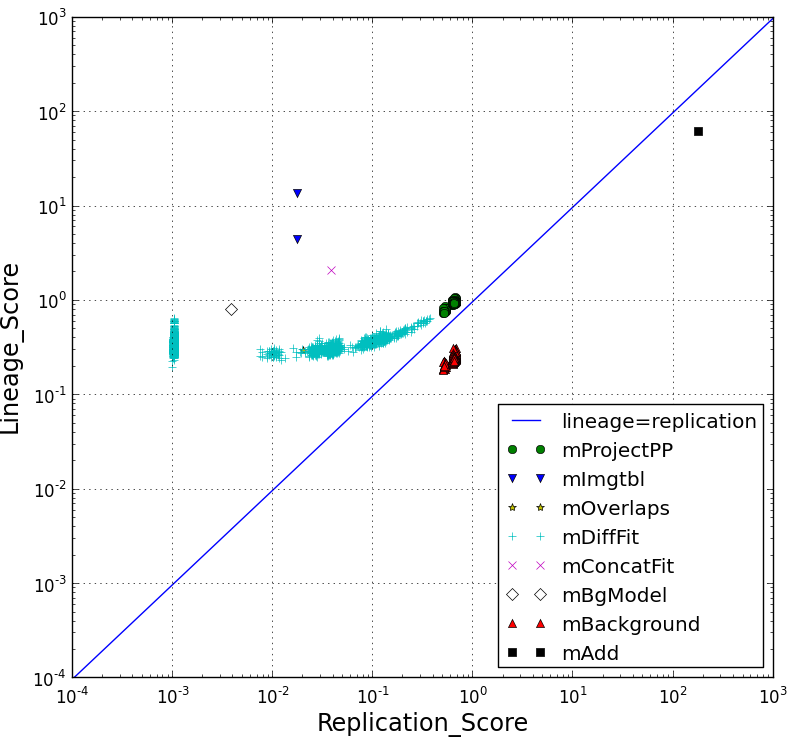
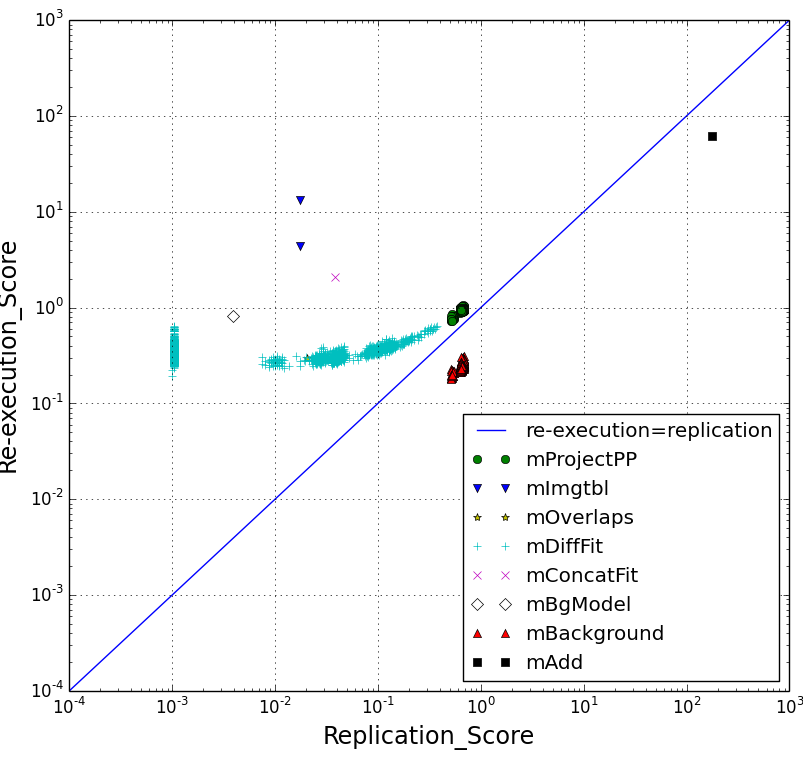
globally change schemes approaches to methods and models

diff --git a/Resilience.tex b/Resilience.tex
@@ -91,12 +91,12 @@ inherently volatile as they are not persisted to disk.
 Existing systems overcome node failure by providing resilient data access either through task re-execution or file replication. 
 However, applying either technique blindly can be inefficient due to 
 excessive recovery or replication costs associated with the irregularity of task runtimes and I/O.
-We present an adaptive approach that calculates and balances backup and
-recovery costs to guide resilience decisions. Our approach aims to identify
+We present an adaptive method that calculates and balances backup and
+recovery costs to guide resilience decisions. Our method aims to identify
 at run time the best choices for a given computer system and application.
-We implement this adaptive approach inside the AMFORA parallel scripting framework
+We implement this adaptive method inside the AMFORA parallel scripting framework
 and evaluate its effectiveness with an image processing application, Montage.
-We find that the adaptive approach recovers up to 57\% faster than
+We find that the adaptive method recovers up to 57\% faster than
 do pure re-execution or replication, while introducing only 2.9\% overhead in failure-free performance on 64 compute nodes.
 We also discover that, at least for this application, backup decisions are relatively insensitive to node failure rate.
 %We implement the adaptive backup model inside two distributed computing framework: AMFORA and
@@ -137,15 +137,15 @@ If we have preserved either metadata describing how to re-execute a task (a {\em
 we can achieve this by 1) re-executing the task(s) that produced the missing data or 2) accessing copies of that data located on other nodes, respectively.
 Meanwhile, all other tasks can continue running as they are not affected by the failure.
 
-The two backup and recovery approaches described above have been employed in various systems. For example,
+The two backup and recovery methods described above have been employed in various systems. For example,
 the Spark~\cite{RDD2012} and BAD-FS~\cite{badfs2004} systems re-execute tasks following node failure,
 while RAID 1~\cite{raid1988} and the Hadoop Distributed File System (HDFS)~\cite{HDFS} replicate each file (at the block level) a configurable number of times to preserve data access following node failure.
 However, irregular execution times, data sizes, and data dependencies can cause problems for each approach when applied to many-task applications. 
-Universal application of the lineage technique can result in excessive recovery costs, since a failure can 
+Universal application of the re-execution method can result in excessive recovery costs, since a failure can 
 require restarting deep in the lineage graph.
-On the other hand, ubiquitous application of replication may result in excessive overheads when failures are rare, due to data copying and storage costs.
-Thus, we present here a new configurable adaptive model that dynamically chooses between these two approaches,
-based on online, model-driven estimates of backup and recovery costs. We integrate this adaptive approach into
+On the other hand, ubiquitous application of replication method may result in excessive overheads when failures are rare, due to data copying and storage costs.
+Thus, we present here a new configurable adaptive method that dynamically chooses between these two methods,
+based on online, model-driven estimates of backup and recovery costs. We integrate this adaptive method into
 AMFORA~\cite{AMFS2013},
 a parallel scripting framework for scientific computing, and evaluate its performance in the context of a large many task scientific application, Montage~\cite{montage2, montage1}. 
 Our experiments show that when emulating a supercomputer with 64 m3.large Amazon EC2 instances, the adaptive model recovers up to 57\% faster than a purely re-execution or replication approach, and introduces only 2.9\% of failure-free overhead. %when compared to no backups.
@@ -159,7 +159,7 @@ In this paper, we assume the network that connects nodes has a uniform bandwidth
 We assume lineage information gathering and data replication are synchronous. To simplify the discussion, we also assume that all nodes share a common, consistent failure rate and failures are uncorrelated. However, we later show that the failure has little impact on the adaptive backup model in Section~\ref{sec:Perf:Failure}. 
 
 
-The contribution of this work is the use of a general adaptive mathematical model for making dynamic recovery %backup\kylenote{is backup the right word here? maybe recovery, resilience or replication?}
+The contribution of this work is the use of a general adaptive mathematical model for making dynamic resilience \zhaonote{I prefer resilience, as we actually make backup decisions that can make recovery fast.} %backup\kylenote{is backup the right word here? maybe recovery, resilience or replication?}
 decisions and our evaluation of this model in a practical setting.
 The model is applicable to a broad range of applications running on clouds, clusters, and supercomputers. We also show that node failure rate is irrelevant to backup choice decision in practice.
 
@@ -289,9 +289,9 @@ of runtime state mutations.
 \section{Adaptive Backup Model}
 \label{sec:Model}
 
-Our resilience approach builds on an analytical model that relates the costs of backup and recovery to system parameters
+Our resilience method builds on an analytical model that relates the costs of backup and recovery to system parameters
 such as communication cost and failure rate.
-Here we explain this model in detail and present the algorithm that we use to make dynamic replication decisions. 
+Here we explain this model in detail and present the algorithm that we use to make dynamic resilience decisions. 
 
 In general, we view a task as a function $t$ that takes $n$ input files and produces $m$ output files:
 \begin{equation}
@@ -376,7 +376,7 @@ equal to the time required to transfer the file plus the time required to switch
 in the case of failure, where the likelihood of needing to use the replica is based on the rate of failure $P$
 Thus, when there is no failure, the cost of replication is simply the cost of creating the replicas
 
-\subsubsection{Expected Lineage Recovery Cost}
+\subsubsection{Expected Re-execution Recovery Cost}
 The recovery time via re-execution is dependent on both the time to re-execute the task as well
 as the time to recover the required input files of that task. 
 A task $t_i$ has $n$ input files. Assume that those input files are located on $n$ other nodes.
@@ -398,14 +398,14 @@ ${n \choose 1}P(1-P)^{n-1}(T+E(x_i))$
 \noindent where ${E(x_i)}$ refers to the recovery cost of item ${x_i}$ via the technique with which file ${x_i}$ is backed up. 
 
 
-Adding these items gives the following closed form for the expected lineage recovery cost:
+Adding these items gives the following closed form for the expected re-execution recovery cost:
 
 \begin{equation}
-E_{line}(y) = T+P\sum_{i=1}^{n}E(x_i)
+E_{reex}(y) = T+P\sum_{i=1}^{n}E(x_i)
 \label{EQ:temporal}
 \end{equation}
 
-Equation~\ref{EQ:temporal} defines the lineage recovery cost for an output file $y$ to be
+Equation~\ref{EQ:temporal} defines the re-execution recovery cost for an output file $y$ to be
 equal to the time to re-execute the task $T$ plus the sum of the time required to recover all of $T$'s
 input files. Here, the only overhead (in the case without failure) is related to 
 the cost of updating file metadata with the information needed to re-execute the task.
@@ -423,24 +423,31 @@ S=\alpha*U+(1-\alpha)*E
 \label{EQ:combined}
 \end{equation}
 %
-For every output file, we evaluate the total cost with both lineage or replication as the backup choice, and use the technique with the lower total cost.
+For every output file, we evaluate the total cost with both re-execution and replication as the backup choice, and use the one with the lower total cost.
 The term $\alpha$ in Equation~\ref{EQ:combined} is a weight, which the user can set to between 0 and 1. 
  If the user's optimization goal is backup cost, users can specify $\alpha$ close to 1
-That means that execution will optimize the backup cost over recovery cost. In contrast, if the user's optimization goal is recovery cost, $\alpha$ should be specified close to 0. The system make backup decisions to optimize the expected recovery cost since the chance of failure is high. Section~\ref{sec:Perf:Weight} quantitatively evaluates the impact of optimization weight on adaptive backup decision making. 
+That means that execution will optimize the backup cost over recovery cost. 
+During execution, the system will always select the backup method with lower backup cost, thus minimizing the failure-free overhead.
+\zhaonote{add one sentence to explain what it means for application with the weight $\alpha$}
+In contrast, if the user's optimization goal is recovery cost, $\alpha$ should be specified close to 0. 
+The system make backup decisions to optimize the expected recovery cost since the chance of failure is high. 
+So the system will always prefer to optimize the performance with the presence of failures.
+\zhaonote{add one sentence to explain what it means for application with the weight $\alpha$}
+Section~\ref{sec:Perf:Weight} quantitatively evaluates the impact of optimization weight on adaptive backup decision making. 
 
 \subsubsection{Discussion}
 %\kylenote{I'm not sure if this section adds a lot, I'm not sure if the discussion is based on what you think? or are we forward referencing results? I would vote to remove (although the picture is nice).}
 %\katznote{I think this makes sense to keep - it explores the equations we just presented.}
-We next discuss how task and system parameters impact the choice of backup approach.
+We next discuss how task and system parameters impact the choice of backup method.
 The four example tasks in Figure~\ref{fig:taxonomy} vary in their computation time, I/O size, and number of input files. If we control the comparison by varying only one factor, we see some trends about backup decisions.
 An output file produced by a longer-running task will tend to be backed up by replication because the cost of regenerating the file by re-executing the task will be large.
 %\iannote{It is unclear from the text whether the following are qualitative statements based on your intuition, or based on simulations.}
 %\iannote{Do you not assume that there is just one output file per task?} 
 %\iannote{I realize now something that is bothering me. You seem to alternate between a perspective based on files and a perspective based on tasks. I think the text will be clearer if you choose one. Let's say it is files. Then this sentence would be ``An output file produced by a longer-running task will tend to be backed up by replication." This sentence (and the other sentences in this section) would be clearer if we added some explanatory words, such as ``because the cost of regenerating the file by re-executing the task will be large."}\zhaonote{I see, fixed}
-A larger output file is more likely to be backed up through lineage, since replicating this file takes a long time.
+A larger output file is more likely to be backed up through re-execution, since replicating this file takes a long time.
 A file that depends on more input files has a higher probability to be backed up through replication, as it takes a long time to read many input files during reproduction of this particular file.
 
-We also observe the implication of system bandwidth for the choice of backup approach.
+We also observe the implication of system bandwidth for the choice of backup method.
 Higher bandwidth improves replication performance more significantly than lineage; thus, other things being equal, the same file is more likely to be backed up through replication on a higher-bandwidth system.
 
 \begin{figure}[ht]
@@ -454,7 +461,7 @@ Higher bandwidth improves replication performance more significantly than lineag
 
 \section{Implementation}
 \label{sec:Impl}
-To integrate the adaptive backup model into the AMFORA framework, we implemented two backup primitives: replicate() and lineage(). The {\em replicate()} primitive creates a configurable number of replicas for a file on peer nodes. The {\em lineage()} primitive records a file's lineage (i.e., the command line used to produce it) in the file's metadata. Also recorded in the file metadata are the file's host address and expected recovery cost
+To integrate the adaptive backup model into the AMFORA framework, we implemented two backup primitives: replicate() and re-execute(). The {\em replicate()} primitive creates a configurable number of replicas for a file on peer nodes. The {\em re-execute()} primitive records a file's lineage (i.e., the command line used to produce it) in the file's metadata. Also recorded in the file metadata are the file's host address and expected recovery costs
 \kylenote{Is this expected recovery cost for both methods? or just lineage?}. 
 \zhaonote{It is both.}
 The execution engine captures task runtime information such as time-to-solution and I/O size. We also require that it
@@ -494,7 +501,7 @@ file that is generated.
 
 \section{Performance Evaluation}
 \label{sec:Perf}
-We evaluate our approach by emulating a supercomputer environment with an Amazon EC2 cluster of 64 m3.large instances, each equipped with 2 Intel Xeon E5-2670 vCPUs and 7.5~GB memory. 
+We evaluate the adaptive method by emulating a supercomputer environment with an Amazon EC2 cluster of 64 m3.large instances, each equipped with 2 Intel Xeon E5-2670 vCPUs and 7.5~GB memory. 
 \zhaonote{rewrite the previous sentence to make it supercomputer} 
 \katznote{not sure this is really helpful - reviewers might ask why not just use 64 nodes of a real supercomputer}
 \zhaonote{There is some technical barrier for running AMFORA on supercomputers after BG/P is decommissioned. The NERSC Edison machine does not allow users to use FUSE on compute nodes and so do other Cray ones. BG/Q does not have a full linux kernel yet.}
@@ -537,8 +544,8 @@ The nine stages spans a wide space of many-task applications across dimensions o
 		\includegraphics[width=160mm]{pictures/no-failure.png}
 		\vspace{-10pt}
 		\caption{Montage performance comparison of lineage backup, replication backup, and adaptive backup
-		resilience schemes without node failures during execution, shown as ratios between the time-to-solution 
-		of each resilience scheme against the no-resilience time-to-solution. Bars above the line indicates performance degradation,
+		methods without node failures during execution, shown as ratios between the time-to-solution 
+		of each resilience method against the no-resilience time-to-solution. Bars above the line indicates performance degradation,
 		and bars below the line indicates performance improvements. The numbers underneath the stage labels are the baseline time-to-solution measured in seconds for overall application and each stage.
 		\label{fig:montage}}
   	\end{center}
@@ -548,51 +555,51 @@ In our recovery cost model we specify a network bandwidth ($B$) of 20~MB/s, whic
 
 
 \subsection{Failure-free Backup Overhead}
-We first run a set of experiments to measure costs incurred by our resilience features in the absence of failure.
+We first run a set of experiments to measure costs incurred by our adaptive method in the absence of failure.
 We run the nine stages
-of the Montage application on our target platform using four different system configurations: no-resilience, lineage backup,
+of the Montage application on our target platform using four different system configurations: no-resilience, re-execution backup,
 replication backup (two replicas per file), and adaptive backup.
 Figure~\ref{fig:montage} shows, for each of the latter three cases, the resilience overhead expressed as
 the ratio between its execution time and the no-resilience time.
 
-We see that in the no-failure case, the overhead incurred by the lineage approach is small (just 0.6\%),
+We see that in the failure-free case, the overhead incurred by the re-execution approach is small (just 0.6\%),
 as the only substantial additional work is that of inserting the generating task information into the file metadata.
-The replication scheme introduces a larger overall overhead of 44.0\%, due to the need to replicate the output files
+The replication method introduces a larger overall overhead of 44.0\%, due to the need to replicate the output files
 to two other nodes.
 
-At the individual Montage stage level, the lineage scheme incurs less overhead than the replication scheme in all stages except mImgtbl-1,
+At the individual Montage stage level, the re-execution method incurs less overhead than the replication method in all stages except mImgtbl-1,
 which is just one task that reads all output files from mProject.
-With the replication scheme, mImgtbl-1 takes advantage of the locality of the replicas of the mProject output files.
+With the replication method, mImgtbl-1 takes advantage of the locality of the additional replicas of the mProject output files.
 \kylenote{I dont understand what you mean by take advantage of replica locality?}
 \zhaonote{Let's say mProject has 369 output files, if there is no replication, each node has about 6 files (64 nodes). By replicating the file two additional times, each node will have 18 files. So mImgtbl-1 will have 18 out of 369 files in the local this. Thus it can run faster.}
-In the mBackground stages, the lineage scheme's overhead is significant (12.1\%), because this stage involves many
+In the mBackground stages, the re-execution method's overhead is significant (12.1\%), because this stage involves many
 parallel, short tasks; the many concurrent metadata updates that result can introduce contention on the nodes that host the metadata.
 In contrast, the mProject, mDiffFit, mBackground, and mAdd stages all incur significant overhead when using replication, because they each produce many and/or large output files.
 For example, mDiffFit has over 2000 output files and mAdd has one task that writes one 1.2~GB output file.
 
-The adaptive replication scheme incurs an overall overhead of 2.9\%, which is inbetween the overheads from lineage and replication.
+The adaptive method incurs an overall overhead of 2.9\%, which is in between the overheads from re-execution and replication.
 For the mImgtbl-1, mOverlaps, mConcatFit, mBgModel, mImtbl-2 and mAdd stages, the adaptive
-scheme uses lineage backup.
-mDIffFit runs faster with the adaptive scheme than with replication, since its input files (outputs of mProjectPP) are backed up with replication.
-The mBackground stage runs in a time that is between that of the lineage and replication cases partially because the input files
-were replicated, and the output files are backed up through lineage.
+method uses lineage backup.
+mDIffFit runs faster with the adaptive method than with replication, since its input files (outputs of mProjectPP) are backed up with replication.
+The mBackground stage runs in a time that is between that of the re-execution and replication cases partially because the input files
+were replicated, and the output files are backed up with the re-execution method.
 
 
 \begin{figure}[ht]
         \begin{center}
                 \includegraphics[width=70mm]{pictures/dist}
                 \vspace{-10pt}
-                \caption{Montage output files' positioning in a two dimensional space of replication score and lineage score.
+                \caption{Montage output files' positioning in a two dimensional space of replication score and re-execution score.
                 \label{fig:montage-space}}
         \end{center}
 \end{figure}
 
-Figure~\ref{fig:montage-space} shows the position of all output files in the test case on a two dimensional space of lineage and replication score
+Figure~\ref{fig:montage-space} shows the position of all output files in the test case on a two dimensional space of re-execution and replication score
 \kylenote{cost? We never really define score. I dont mind calling it score but we should make sure that is clear earlier.} 
 \zhaonote{I put a Score definition before Equation 7. It is ``Score'' as it is the linear combination of the expected backup and recovery cost. So there should be ``Lineage Score'' and ``Replication Score'' for each file.}
 calculated with Equation~\ref{EQ:combined}.
-Each point shows a single output file from each Montage stage. The points in the upper left triangle are those where the replication score is lower than the lineage store, 
-while those in the lower right triangle are the files where the lineage score is lower than the replication score.
+Each point shows a single output file from each Montage stage. The points in the upper left triangle are those where the replication score is lower than the re-execution store, 
+while those in the lower right triangle are the files where the re-execution score is lower than the replication score.
 
 \subsection{Recovery Performance}
 To evaluate recovery time, we inject failures during job execution by causing a node to fail (fail-stop) at a specified application stage.
@@ -606,12 +613,12 @@ needs to access the output files of mProject.
 When one of these files is not available, the system must recover that file through either re-execution (based on
 lineage metadata) or by accessing a file replica (if the file replicated).
 
-Figure~\ref{fig:montage-fail-mProjectPP} compares the times to solution of our three backup schemes for those three
+Figure~\ref{fig:montage-fail-mProjectPP} compares the times to solution of our three backup methods for those three
 Montage stages.
-We see that the adaptive and replication schemes perform similarly in stages mImgtbl-1 and mDiffFit,
-as the output files of these two stages are backed up via replication; both also perform better than the lineage scheme.
-The mBackground stage runs faster under the adaptive scheme than in the lineage and replication scheme,
-as all of its tasks benefit from the previously replicated mProject output files and all of its output files are backed up through lineage as shown in Figure~\ref{fig:montage-space}.
+We see that the adaptive and replication methods perform similarly in stages mImgtbl-1 and mDiffFit,
+as the output files of these two stages are backed up via replication; both also perform better than the re-execution method.
+The mBackground stage runs faster under the adaptive method than in the re-execution and replication method,
+as all of its tasks benefit from the previously replicated mProject output files and all of its output files are backed up through the re-execution method as shown in Figure~\ref{fig:montage-space}.
 
 \begin{figure}[ht]
         \begin{center}
@@ -643,30 +650,30 @@ Thus, upon file unavailability, the system recovers the mBackground output file 
         \end{center}
 \end{figure}
 
-Figure~\ref{fig:montage-fail-mBackground} shows the time-to-solution comparison between the three replication schemes. 
-The adaptive scheme achieves similar performance with lineage and replication scheme for mImgtbl-2. 
-This indicates that recovery from lineage recursively and backing up the mImgtbl-2 output file with the same scheme has identical performance to recovery using replication recursively and backing up mImgtbl-2 output files through replication. 
-In fact, the adaptive approaches recovers the input files using lineage for mBackground and using replication for mProject. The mImgtbl-2 output file is backed up through replication.
-The adaptive scheme has significant performance advantages for the mAdd stage.
-It again achieves recursive recovery via lineage for mBackground and replication for mProject,
+Figure~\ref{fig:montage-fail-mBackground} shows the time-to-solution comparison between the three replication methods. 
+The adaptive method achieves similar performance with re-execution and replication method for mImgtbl-2. 
+This indicates that recovery from re-execution recursively and backing up the mImgtbl-2 output file with the same method has identical performance to recovery using replication recursively and backing up mImgtbl-2 output files through replication. 
+In fact, the adaptive method recovers the input files using re-exeuction for mBackground and using replication for mProject. The mImgtbl-2 output file is backed up through replication.
+The adaptive method has significant performance advantages for the mAdd stage.
+It again achieves recursive recovery via re-execution for mBackground and replication for mProject,
 but chooses to replicate the mAdd output file using lineage, which in turn results in better time-to-solution.
 
 
 
 \subsection{Impact of Optimization Weight}
 \label{sec:Perf:Weight}
-We use the output files of all stages of the Montage test case to evaluate how the optimization weight parameter $\alpha$ impacts the behavior of our adaptive algorithm. %\kylenote{scheme or algorithm?} \katznote{In American English, a scheme always has negative connotations though I recognize that this is not the case in British (and apparently NZ English).} 
+We use the output files of all stages of the Montage test case to evaluate how the optimization weight parameter $\alpha$ impacts the behavior of our adaptive method. %\kylenote{scheme or algorithm?} \katznote{In American English, a scheme always has negative connotations though I recognize that this is not the case in British (and apparently NZ English).} 
 We fix all parameters in the system except $\alpha$, which we set variously to be 0.1, 0.5, and 0.9, indicating the user's concern with optimizing the failure-free run time.
 
 
-Figure~\ref{fig:weight} shows our results. We see that as $\alpha$ increases, files move from the upper left triangle to the lower right triangle, with the result that the failure-free run time is shorter since more files are backed up through lineage.
+Figure~\ref{fig:weight} shows the results. We see that as $\alpha$ increases, files move from the upper left triangle to the lower right triangle, with the result that the failure-free run time is shorter since more files are backed up through the re-execution method.
 This result exactly matches the user's optimization goal of minimizing failure-free running time.
 
 \begin{figure*}[ht]
 	\begin{center}
 		\includegraphics[width=160mm]{pictures/weight}
 		\vspace{-10pt}
-		\caption{Backup decision making when varying the optimization weight. Files in the upper left triangle are backed up through replication and files in the lower right triangle are backed up through lineage.
+		\caption{Backup decision making when varying the optimization weight. Files in the upper left triangle are backed up through replication and files in the lower right triangle are backed up through re-execution.
 		\label{fig:weight}}
   	\end{center}
 \end{figure*}
@@ -691,19 +698,19 @@ We see that unless $P$ is quite large, data and metadata copy costs dominate,
 %
 %\katznote{should this be part of the previous paragraph?}
 %\zhaonote{yes, done}
-and the lineage score and replication score have a simpler form than in Equation~\ref{EQ:spatial} and ~\ref{EQ:temporal}
+and the re-execution score and replication score have a simpler form than in Equation~\ref{EQ:spatial} and ~\ref{EQ:temporal}
 %\iannote{What do you mean ``now"? And simpler than what? Why?}\zhaonote{simpler than Equation 5 and 6, since we eliminate the part with $P$ because $P$'s impact is limited}:
 \begin{itemize}
   \item[] $S_{repl} = \alpha\frac{|y|}{B}(r-1) + (1-\alpha)\frac{|y|}{B} $
   \item[] $S_{line} = \alpha\frac{|M_y|}{B}(r-1) + (1-\alpha)T$
 \end{itemize}
 
-We also consider a second question, namely, how does the adaptive model respond to varying numbers of input files?
+We also consider a second question, namely, how does the adaptive method respond to varying numbers of input files?
 For example, in the case of {\em task 1} and {\em task 4} in Figure~\ref{fig:taxonomy}, which are identical except for the number of input files, can the adaptive model\kylenote{We change between model, scheme, algorithm throughout} \katznote{can we use method for the overall idea, model for a numerical model of the method, and algorithm for the specific algorithm we pick?  and not use scheme, as it has a somewhat negative connotation in American English?} 
 \zhaonote{yes, let's do it. Kyle, would like to the editing?}
 determine that the output of {\em task 4} should be backed up through replication? (since more input files indicate a larger chance of failure)
 The answer is yes.
-Our computation of a task's time-to-solution $T$ includes three parts: input access (either local or remote), computation time, and output to local RAM. If the computation and output phases take the same amount of time, more input files makes the input phase run longer, which is reflected in the measurement of $T$. The output of {\em task 4} thus has a higher recovery cost through lineage than that of {\em task 1}; thus, the adaptive scheme is more likely to replicate the data.
+Our computation of a task's time-to-solution $T$ includes three parts: input access (either local or remote), computation time, and output to local RAM. If the computation and output phases take the same amount of time, more input files makes the input phase run longer, which is reflected in the measurement of $T$. The output of {\em task 4} thus has a higher recovery cost through lineage than that of {\em task 1}; thus, the adaptive method is more likely to replicate the data.
 
 
 
@@ -735,10 +742,10 @@ While these approaches to fault tolerance have been successfully applied in a nu
 
 \section{Conclusion and Future Work}
 \label{sec:Con}
-We have proposed a new approach to fault-tolerant distributed computation suitable for the increasingly important class of parallel applications composed of small tasks linked by data flows when using parallel scripting frameworks with transient in-memory file systems. %\zhaonote{some more text in the previous sentence}
-The core of our approach is a mathematical model of backup and recovery costs, which we leverage to make runtime decisions about how and when to replicate data and metadata. This model, which permits online comparison of the cost of replicating data via either re-execution or access to replicas, takes as input only input file size, output file size, number of replicas, task time-to-solution, network bandwidth, and failure rate.
+We have proposed a new method to fault-tolerant distributed computation suitable for the increasingly important class of parallel applications composed of small tasks linked by data flows when using parallel scripting frameworks with transient in-memory file systems. %\zhaonote{some more text in the previous sentence}
+The core of our method is a mathematical model of backup and recovery costs, which we leverage to make runtime decisions about how and when to replicate data and metadata. This model, which permits online comparison of the cost of replicating data via either re-execution or access to replicas, takes as input only input file size, output file size, number of replicas, task time-to-solution, network bandwidth, and failure rate.
 We implemented the model in a parallel scripting framework and presented performance results for an astronomy image processing application, Montage.
-These results show that our adaptive scheme can recover from failure more efficiently in the case of failure than other methods, while introducing only 2.9\% overhead when there are no failures. We also investigated the sensitivity of our model to failure rate, a notoriously inaccurate parameter. We find that for our target application (and, we expect, for many other similar applications), backup decisions are relatively insensitive to failure rate in practice.
+These results show that our adaptive method can recover from failure more efficiently in the case of failure than other methods, while introducing only 2.9\% overhead when there are no failures. We also investigated the sensitivity of our model to failure rate, a notoriously inaccurate parameter. We find that for our target application (and, we expect, for many other similar applications), backup decisions are relatively insensitive to failure rate in practice.
 
 Our configurable model permits users to express their preferences regarding the relative weight to be given to re-execution vs.\ access to cached data as a recovery strategy,
 and thus the time spent on data replication vs.\ metadata storage. Such preferences may be used to express, for example, the user's expected failure rates, their interest
